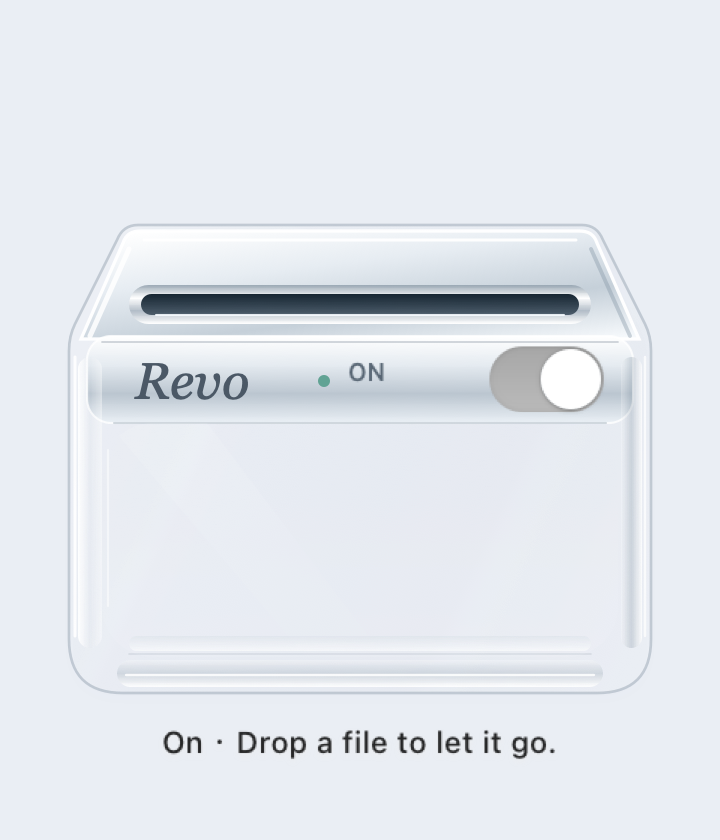
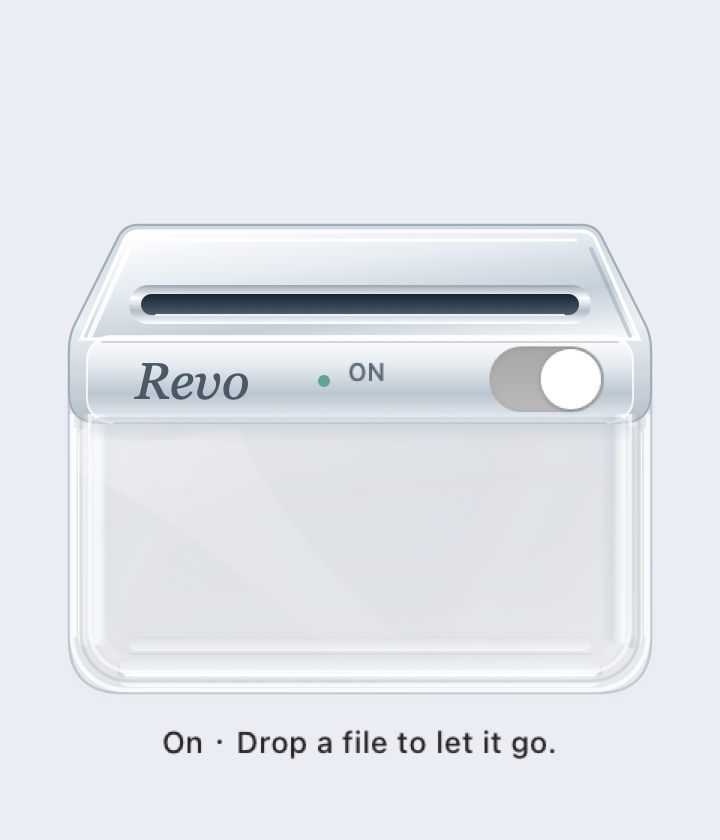
Make the entire metal head opaque and refine liquid glass

diff --git a/Sources/Revo/MachineArtwork.swift b/Sources/Revo/MachineArtwork.swift
@@ -9,6 +9,7 @@ enum MachineArtwork {
     static let paperHeight: CGFloat = 94
     static let window = CGRect(x: 43, y: 62, width: 154, height: 77)
     static let shell = CGRect(x: 23, y: 49, width: 194, height: 156)
+    static let glassFrame = CGRect(x: 23, y: 49, width: 194, height: 93)
     static let inlet = CGRect(x: 47, y: slotY - 3, width: 146, height: 7)
     static let switchFrame = CGRect(x: 162, y: 141, width: 40, height: 24)
 
@@ -73,6 +74,39 @@ enum MachineArtwork {
         return path
     }
 
+    /// The head includes its bevels and end caps; every interior pixel is opaque.
+    static var headOutline: CGPath {
+        let path = CGMutablePath()
+        path.move(to: CGPoint(x: 46, y: 205))
+        path.addLine(to: CGPoint(x: 194, y: 205))
+        path.addQuadCurve(to: CGPoint(x: 201, y: 200), control: CGPoint(x: 199, y: 205))
+        path.addLine(to: CGPoint(x: 215, y: 172))
+        path.addQuadCurve(to: CGPoint(x: 217, y: 163), control: CGPoint(x: 217, y: 168))
+        path.addLine(to: CGPoint(x: 217, y: 149))
+        path.addQuadCurve(to: CGPoint(x: 207, y: 139), control: CGPoint(x: 217, y: 139))
+        path.addLine(to: CGPoint(x: 33, y: 139))
+        path.addQuadCurve(to: CGPoint(x: 23, y: 149), control: CGPoint(x: 23, y: 139))
+        path.addLine(to: CGPoint(x: 23, y: 163))
+        path.addQuadCurve(to: CGPoint(x: 25, y: 172), control: CGPoint(x: 23, y: 168))
+        path.addLine(to: CGPoint(x: 39, y: 200))
+        path.addQuadCurve(to: CGPoint(x: 46, y: 205), control: CGPoint(x: 41, y: 205))
+        path.closeSubpath()
+        return path
+    }
+
+    /// The glass material stops beneath the solid metal head.
+    static var glassOutline: CGPath {
+        let path = CGMutablePath()
+        path.move(to: CGPoint(x: 23, y: 142))
+        path.addLine(to: CGPoint(x: 217, y: 142))
+        path.addLine(to: CGPoint(x: 217, y: 67))
+        path.addQuadCurve(to: CGPoint(x: 199, y: 49), control: CGPoint(x: 217, y: 49))
+        path.addLine(to: CGPoint(x: 41, y: 49))
+        path.addQuadCurve(to: CGPoint(x: 23, y: 67), control: CGPoint(x: 23, y: 49))
+        path.closeSubpath()
+        return path
+    }
+
     private static func drawBody() {
         let outer = NSBezierPath(cgPath: outline)
         NSGraphicsContext.saveGraphicsState()
@@ -82,6 +116,11 @@ enum MachineArtwork {
         NSGraphicsContext.restoreGraphicsState()
         gradient(outer, [(0xFFFFFF, 0.15), (0xE5EDF6, 0.015), (0xA8B3C1, 0.035), (0xFFFFFF, 0.12)], -25)
         stroke(outer, 0x6C7A8B, 0.38, 0.9)
+
+        // Fill the complete head first, including the formerly clear perimeter.
+        let head = NSBezierPath(cgPath: headOutline)
+        gradient(head, [(0xC4CED8, 1), (0xE6ECF1, 1), (0xA6B2BF, 1)], -90)
+        stroke(head, 0x8997A5, 0.85, 0.7)
 
         // The opaque aluminum top recedes toward the narrower back edge.
         let top = NSBezierPath()
@@ -112,10 +151,10 @@ enum MachineArtwork {
         line(CGPoint(x: 52, y: inlet.minY), CGPoint(x: 188, y: inlet.minY), color: 0xF4FAFF, alpha: 0.9, width: 0.7)
 
         // Thick clear side rails carry the upper-left light down the front face.
-        gradient(rounded(NSRect(x: 26, y: 64, width: 8, height: 97), 4), [(0xFFFFFF, 0.94), (0xA7B3C2, 0.05), (0xFFFFFF, 0.40)], 0)
-        gradient(rounded(NSRect(x: 207, y: 64, width: 7, height: 97), 3.5), [(0xFFFFFF, 0.24), (0x778797, 0.32), (0xFFFFFF, 0.78)], 0)
-        line(CGPoint(x: 25, y: 68), CGPoint(x: 25, y: 161), color: 0xFFFFFF, alpha: 0.88, width: 1)
-        line(CGPoint(x: 215, y: 68), CGPoint(x: 215, y: 161), color: 0xFFFFFF, alpha: 0.72, width: 0.8)
+        gradient(rounded(NSRect(x: 26, y: 64, width: 8, height: 74), 4), [(0xFFFFFF, 0.94), (0xA7B3C2, 0.05), (0xFFFFFF, 0.40)], 0)
+        gradient(rounded(NSRect(x: 207, y: 64, width: 7, height: 74), 3.5), [(0xFFFFFF, 0.24), (0x778797, 0.32), (0xFFFFFF, 0.78)], 0)
+        line(CGPoint(x: 25, y: 68), CGPoint(x: 25, y: 137), color: 0xFFFFFF, alpha: 0.88, width: 1)
+        line(CGPoint(x: 215, y: 68), CGPoint(x: 215, y: 137), color: 0xFFFFFF, alpha: 0.72, width: 0.8)
         gradient(rounded(NSRect(x: 39, y: 51, width: 162, height: 9), 4.5), [(0xFFFFFF, 0.25), (0x81909F, 0.30), (0xFFFFFF, 0.92)])
         line(CGPoint(x: 42, y: 55), CGPoint(x: 198, y: 55), color: 0xFFFFFF, alpha: 0.85, width: 0.8)
         gradient(rounded(NSRect(x: 43, y: 63, width: 154, height: 5), 2.5), [(0xB2BECC, 0.20), (0xFFFFFF, 0.56)])
@@ -123,15 +162,32 @@ enum MachineArtwork {
     }
 
     private static func drawGlass() {
-        let front = rounded(NSRect(x: 34, y: 61, width: 172, height: 78), 17)
-        gradient(front, [(0xEAF3FD, 0.01), (0xFFFFFF, 0.025), (0xFFFFFF, 0.08)])
-        NSGraphicsContext.saveGraphicsState(); front.addClip()
+        let front = NSBezierPath(cgPath: glassOutline)
+        NSGraphicsContext.saveGraphicsState()
+        front.addClip()
+        // A clear center and denser perimeter give the pane a rounded liquid meniscus.
+        gradient(front, [(0xFFFFFF, 0.16), (0xE4EFF9, 0.015), (0xFFFFFF, 0.06), (0xFFFFFF, 0.22)], -83)
+        stroke(rounded(NSRect(x: 24, y: 50, width: 192, height: 109), 18), 0xFFFFFF, 0.78, 1.5)
+        stroke(rounded(NSRect(x: 27, y: 53, width: 186, height: 105), 16), 0x718699, 0.23, 1.1)
+        stroke(rounded(NSRect(x: 30, y: 56, width: 180, height: 100), 14), 0xFFFFFF, 0.57, 1.3)
+        stroke(rounded(NSRect(x: 33, y: 59, width: 174, height: 96), 13), 0xFFFFFF, 0.16, 3.5)
+
+        // Broad, low-contrast reflections merge into the clear center.
         let reflection = NSBezierPath()
-        reflection.move(to: CGPoint(x: 36, y: 139)); reflection.line(to: CGPoint(x: 69, y: 139))
-        reflection.line(to: CGPoint(x: 128, y: 61)); reflection.line(to: CGPoint(x: 102, y: 61)); reflection.close()
-        gradient(reflection, [(0xFFFFFF, 0.10), (0xFFFFFF, 0.005)], -65)
+        reflection.move(to: CGPoint(x: 24, y: 138))
+        reflection.curve(to: CGPoint(x: 79, y: 138), controlPoint1: CGPoint(x: 43, y: 131), controlPoint2: CGPoint(x: 55, y: 132))
+        reflection.curve(to: CGPoint(x: 153, y: 54), controlPoint1: CGPoint(x: 93, y: 103), controlPoint2: CGPoint(x: 128, y: 69))
+        reflection.line(to: CGPoint(x: 119, y: 54))
+        reflection.curve(to: CGPoint(x: 24, y: 123), controlPoint1: CGPoint(x: 93, y: 81), controlPoint2: CGPoint(x: 44, y: 118))
+        reflection.close()
+        gradient(reflection, [(0xFFFFFF, 0.20), (0xFFFFFF, 0.015)], -48)
+        gradient(rounded(NSRect(x: 28, y: 65, width: 12, height: 80), 6), [(0xFFFFFF, 0.04), (0xFFFFFF, 0.58), (0xB8D1E6, 0.10), (0xFFFFFF, 0.02)], 0)
+        gradient(rounded(NSRect(x: 200, y: 65, width: 12, height: 80), 6), [(0xFFFFFF, 0.015), (0x98AFC3, 0.20), (0xFFFFFF, 0.70), (0xFFFFFF, 0.03)], 0)
+        gradient(rounded(NSRect(x: 40, y: 53, width: 160, height: 10), 5), [(0xFFFFFF, 0.06), (0xC4D8E9, 0.25), (0xFFFFFF, 0.77), (0xFFFFFF, 0.02)])
+        line(CGPoint(x: 44, y: 55), CGPoint(x: 193, y: 55), color: 0xFFFFFF, alpha: 0.84, width: 1)
+        // A narrow contact shadow separates the solid head from the glass below it.
+        gradient(rounded(NSRect(x: 30, y: 132, width: 180, height: 9), 4), [(0x536779, 0.16), (0x536779, 0)], -90)
         NSGraphicsContext.restoreGraphicsState()
-        line(CGPoint(x: 36, y: 78), CGPoint(x: 36, y: 130), color: 0xFFFFFF, alpha: 0.48, width: 0.7)
     }
 
     static func shutter() -> CGImage {

diff --git a/Sources/Revo/RevoView.swift b/Sources/Revo/RevoView.swift
@@ -14,7 +14,7 @@ final class RevoView: NSView {
     private let powerSwitch = NSSwitch(frame: MachineArtwork.switchFrame)
     private let powerLabel = CATextLayer()
     private let shutter = CALayer()
-    private let backdrop = GlassBackdrop(frame: MachineArtwork.shell)
+    private let backdrop = GlassBackdrop(frame: MachineArtwork.glassFrame)
     private let led = CALayer()
     private let glow = CALayer()
     private let caption = CATextLayer()
@@ -110,8 +110,8 @@ final class RevoView: NSView {
 
     @objc private func updateTransparency() {
         let reduce = NSWorkspace.shared.accessibilityDisplayShouldReduceTransparency
-        // Clear glass exposes the desktop directly; accessibility can replace it with a solid surface.
-        backdrop.alphaValue = reduce ? 1 : 0
+        // A light native diffusion sits under the clear meniscus and edge reflections.
+        backdrop.alphaValue = reduce ? 1 : 0.22
         backdrop.layer?.backgroundColor = reduce ? MachineArtwork.color(0xE6EBF1).cgColor : NSColor.clear.cgColor
     }
 

diff --git a/Sources/Revo/GlassBackdrop.swift b/Sources/Revo/GlassBackdrop.swift
@@ -1,6 +1,6 @@
 import AppKit
 
-/// A native solid backdrop used only when Reduce Transparency is enabled.
+/// Live desktop diffusion is confined to the lower liquid-glass enclosure.
 final class GlassBackdrop: NSVisualEffectView {
     override init(frame: NSRect) {
         super.init(frame: frame)
@@ -11,10 +11,10 @@ final class GlassBackdrop: NSVisualEffectView {
         wantsLayer = true
         let mask = CAShapeLayer()
         var local = CGAffineTransform(translationX: -frame.minX, y: -frame.minY)
-        mask.path = MachineArtwork.outline.copy(using: &local)
+        mask.path = MachineArtwork.glassOutline.copy(using: &local)
         layer?.mask = mask
         layer?.masksToBounds = true
-        alphaValue = 0
+        alphaValue = 0.22
     }
     required init?(coder: NSCoder) { fatalError("init(coder:) not used") }
     override func hitTest(_ point: NSPoint) -> NSView? { nil }

diff --git a/README.md b/README.md
@@ -9,7 +9,7 @@ A tiny native macOS desktop companion that turns letting go of files into a smal
 
 ## The little machine
 
-A solid silver head, clear glass enclosure, layered edge reflections, and a native on/off switch. A gently elevated viewpoint reveals the receding top plane and metal front fascia. Larger file previews align with the inlet before feeding into the glass enclosure. The lower enclosure shows the desktop directly through clear glass, with no frosted blur. Reduce Transparency replaces it with a solid native backdrop. The metal inlet and glass highlights are drawn in code with AppKit. Core Animation handles the paper feed, cutting, falling scraps, and subtle mechanical feedback. The only branding is Revo, set in Georgia Italic. The compact desktop panel measures 216 × 252 points.
+A solid silver head, clear glass enclosure, layered edge reflections, and a native on/off switch. A gently elevated viewpoint reveals the receding top plane and metal front fascia. Larger file previews align with the inlet before feeding into the glass enclosure. The entire head, including its bevels and end caps, is opaque aluminum. The lower enclosure combines subtle native desktop diffusion with a clear center, curved reflections, and a thick liquid-glass rim. Reduce Transparency replaces the glass with a solid native backdrop. The metal inlet and glass highlights are drawn in code with AppKit. Core Animation handles the paper feed, cutting, falling scraps, and subtle mechanical feedback. The only branding is Revo, set in Georgia Italic. The compact desktop panel measures 216 × 252 points.
 
 - Documents become narrow paper strips.
 - Photos use a thumbnail and break into confetti.
@@ -82,7 +82,7 @@ Preview mode renders off, on, feeding, and finished screenshots using demo sheet
 | `RevoPanel.swift` | Transparent floating panel and saved position |
 | `RevoView.swift` | Drag and drop, animation queue, menus, and feedback |
 | `MachineArtwork.swift` | Translucent enclosure, metal inlet, and shutter |
-| `GlassBackdrop.swift` | Reduce Transparency backdrop and click-through artwork host |
+| `GlassBackdrop.swift` | Native diffusion inside the lower glass and accessibility fallback |
 | `PowerQueue.swift` | Default-off interlock and waiting-job cancellation |
 | `PaperSprite.swift` | File-specific paper previews and bounded photo thumbnails |
 | `TrashService.swift` | System Trash operations and conflict-safe undo |
